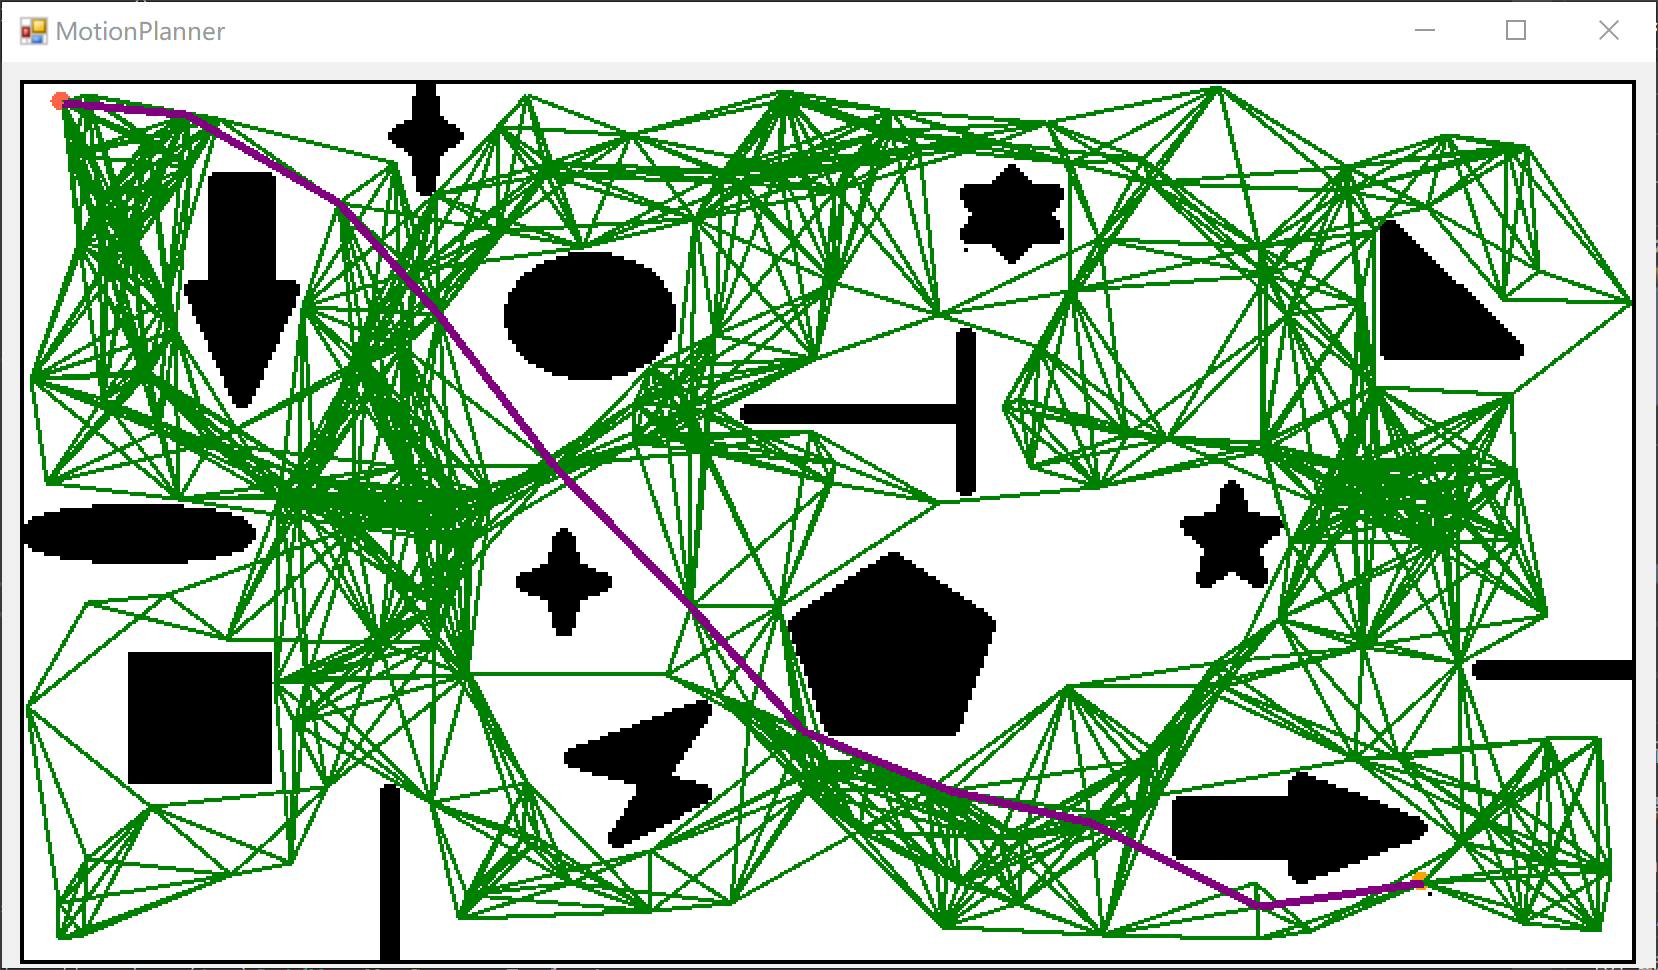
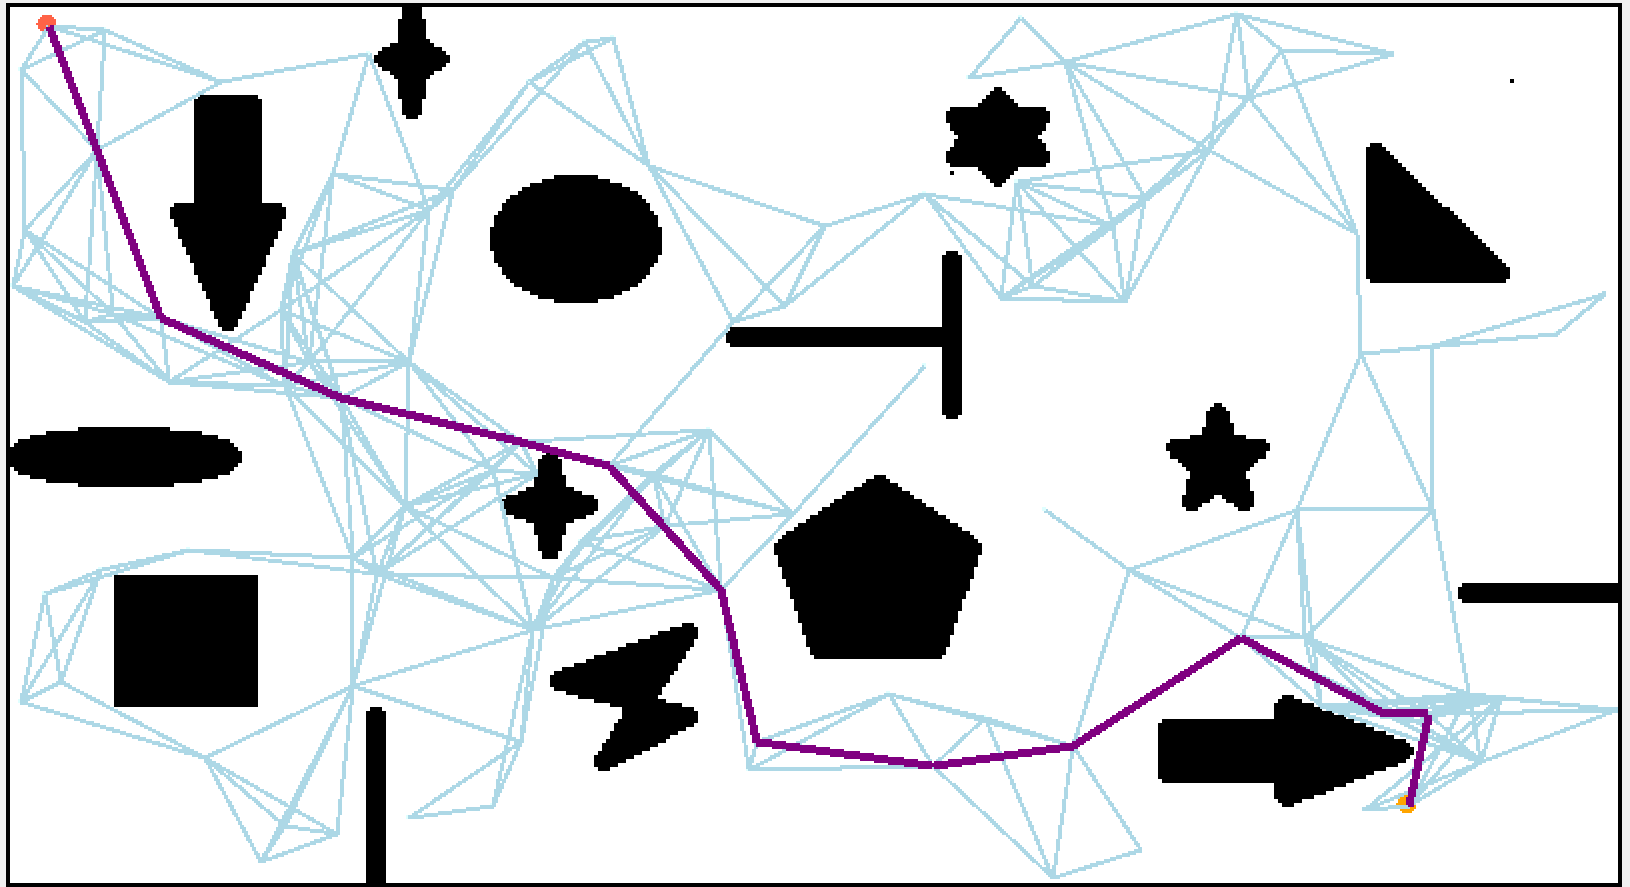
基本完成RRT算法

diff --git a/MotionPlanner/RRT.cs b/MotionPlanner/RRT.cs
@@ -1,0 +1,134 @@
+using System;
+using System.Collections.Generic;
+using System.Drawing;
+using System.Linq;
+using System.Text;
+using System.Threading;
+using System.Threading.Tasks;
+
+namespace MotionPlanner
+{
+    /// <summary>
+    /// 快速扩展随机树算法(Rapidly-exploring Random Tree, RRT)
+    /// </summary>
+    class RRT
+    {
+
+        const int NUM_SAMPLES = 20000; // 采样点数
+        const double MAX_DISTANCE = 15; // 两个节点建立连接的最大距离
+        public Graph samplesGraph = new Graph();
+        GridMap map;
+        public RRT(GridMap map)
+        {
+            this.map = map;
+            map.graph = samplesGraph;
+        }
+
+        public void Search()
+        {
+            samplesGraph.nodes.Add(new Node(map.origin.X, map.origin.Y)); // 将起点加入采样图
+
+            Node origin = new Node(map.origin.X, map.origin.Y);
+            Node goal = new Node(map.goal.X, map.goal.Y);
+
+            Random rd = new Random();
+            while (samplesGraph.nodes.Count < NUM_SAMPLES)
+            {
+                double p = rd.Next(0, 100) / 100.0;
+                int x = 0;
+                int y = 0;
+                if (p > 0.1)
+                {
+                    x = rd.Next(0, map.Height);
+                    y = rd.Next(0, map.Width);
+                }
+                else
+                {
+                    x = goal.x;
+                    y = goal.y;
+                }
+                if (map.map[x][y] != (int)GridMap.MapStatus.Occupied)
+                {
+                    //samplesGraph.Add(new Node(x, y));
+                    //map.graph.Add(new List<Point> { new Point(x, y) });
+                    Node sample = new Node(x, y);
+                    double distance = GetEuclideanDistance(new Point(samplesGraph.nodes[0].x, samplesGraph.nodes[0].y), new Point(sample.x, sample.y));
+                    sample.front = samplesGraph.nodes[0];
+                    bool flag = false;
+                    for (int i = 0; i < samplesGraph.nodes.Count; i++)
+                    {
+                        if (!isCollision(new Point(samplesGraph.nodes[i].x, samplesGraph.nodes[i].y), new Point(sample.x, sample.y), MAX_DISTANCE))
+                        {
+                            flag = true;
+                            if (!samplesGraph.nodes[i].isEqual(sample))
+                            {
+                                double distance1 = GetEuclideanDistance(new Point(samplesGraph.nodes[i].x, samplesGraph.nodes[i].y), new Point(sample.x, sample.y));
+                                if (distance1 < distance)
+                                {
+                                    sample.front = samplesGraph.nodes[i];
+                                    distance = distance1;
+                                }
+
+                            }
+                        }
+                    }
+                    if (flag)
+                    {
+                        samplesGraph.nodes.Add(sample);
+                        sample.front.neighbor.Add(sample);
+
+                        // 到达终点后，回溯得到路径
+                        if (sample.isEqual(goal))
+                        {
+                            while (sample.front != null)
+                            {
+                                map.map[sample.x][sample.y] = (int)GridMap.MapStatus.Road;
+                                map.road.Add(new Point(sample.x, sample.y));
+                                sample = sample.front;
+                            }
+                            map.road.Add(map.origin);
+                            break;
+                        }
+                    }
+
+
+
+
+                }
+                //Thread.Sleep(1);
+                
+            }
+        }
+
+        private double GetEuclideanDistance(Point p1, Point p2)
+        {
+            return Math.Sqrt(Math.Pow(p1.X - p2.X, 2) + Math.Pow(p1.Y - p2.Y, 2));
+        }
+
+        public bool isCollision(Point p1, Point p2, double maxDist)
+        {
+
+            double theta = Math.Atan2(p2.Y - p1.Y, p2.X - p1.X); // 倾角
+            double dist = GetEuclideanDistance(p1, p2); // 两点距离
+            if (dist > maxDist)
+            {
+                return true;
+            }
+            double step = 1; // 步长
+            int n_step = (int)(dist / step); // 步数
+            PointF p = new PointF((float)p1.X + (float)(step * Math.Cos(theta)),
+                                (float)p1.Y + (float)(step * Math.Sin(theta)));
+            for (int i = 0; i < n_step; i++)
+            {
+                if (map.map[(int)Math.Round(p.X)][(int)Math.Round(p.Y)] == (int)GridMap.MapStatus.Occupied)
+                {
+                    return true;  // 有碰撞
+                }
+
+                p.X += (float)(step * Math.Cos(theta));
+                p.Y += (float)(step * Math.Sin(theta));
+            }
+            return false;
+        }
+    }
+}

diff --git a/MotionPlanner/SamplingPainter.cs b/MotionPlanner/SamplingPainter.cs
@@ -167,13 +167,14 @@ namespace MotionPlanner
 
         public static Graphics PaintGraph(Graphics g)  // 画出图结构
         {
-            foreach (List<Point> node in gridMap.graph)            
+            for (int k = 0; k < gridMap.graph.nodes.Count; k++)
             {
-                for(int i = 1; i < node.Count; i++)
+                Node node = gridMap.graph.nodes[k];
+                for (int i = 0; i < node.neighbor.Count; i++)
                 {
-                    g.DrawLine(new Pen(Pens.Green.Color, 2),
-                                GetCenterPoint(IndexInWhichRect(node[0])),
-                                GetCenterPoint(IndexInWhichRect(node[i]))
+                    g.DrawLine(new Pen(Pens.LightBlue.Color, 2),
+                                GetCenterPoint(IndexInWhichRect(new Point(node.x, node.y))),
+                                GetCenterPoint(IndexInWhichRect(new Point(node.neighbor[i].x, node.neighbor[i].y)))
                                 );
                 }
             }

diff --git a/MotionPlanner/GridMap.cs b/MotionPlanner/GridMap.cs
@@ -19,7 +19,7 @@ namespace MotionPlanner
         string config_dir = "../../map.txt";
 
         public List<Point> road = new List<Point>(); // 路径
-        public List<List<Point>> graph = new List<List<Point>>(); // 图
+        public Graph graph = new Graph(); // 图
 
         public enum MapStatus { Unoccupied = 0, // 未被占据的结点
                                 Occupied,       // 被占据的结点

diff --git a/MotionPlanner/MotionPlanner.cs b/MotionPlanner/MotionPlanner.cs
@@ -83,6 +83,12 @@ namespace MotionPlanner
                 IsBackground = true
             }.Start();
 
+            //RRT rrt = new RRT(gridMap);
+            //new Thread(rrt.Search)
+            //{
+            //    IsBackground = true
+            //}.Start();
+
         }
 
         //private void btn_genMap_Click(object sender, EventArgs e)

diff --git a/README.md b/README.md
@@ -28,4 +28,8 @@
 
 ### PRM
 
-![06-PRM-运行结果](img/06-PRM-运行结果.png)
+<img src="img/06-PRM-运行结果.png" alt="06-PRM-运行结果" style="zoom: 50%;" />
+
+### RRT
+
+<img src="C:\1A\运动规划\motion-planner\img\07-RRT.gif" alt="07-RRT" style="zoom:50%;" />
